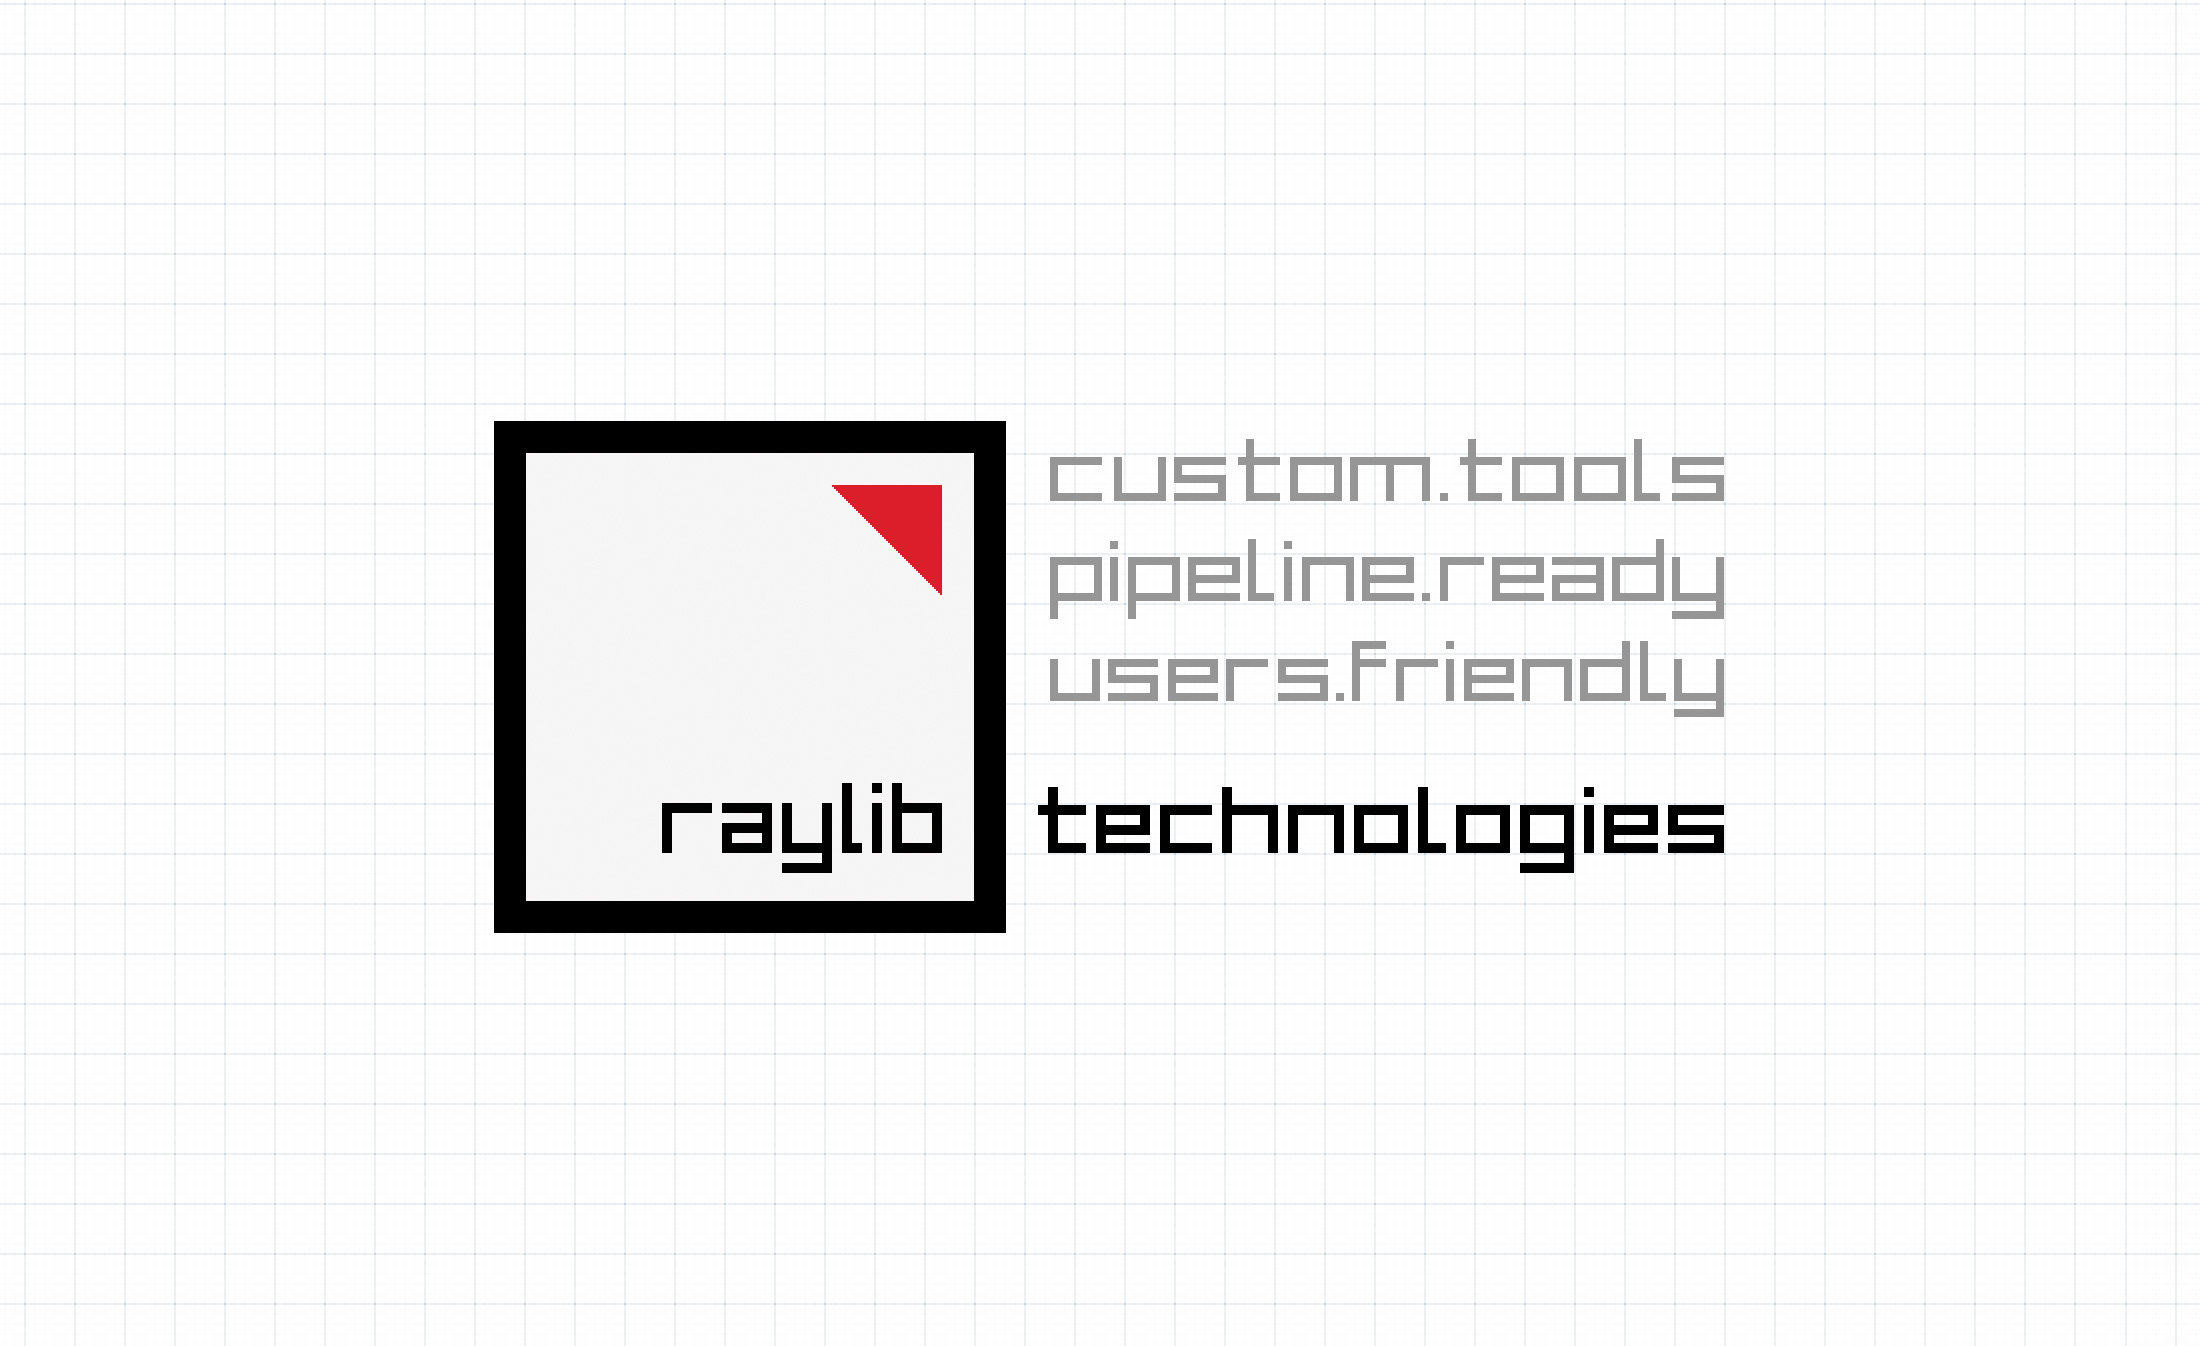
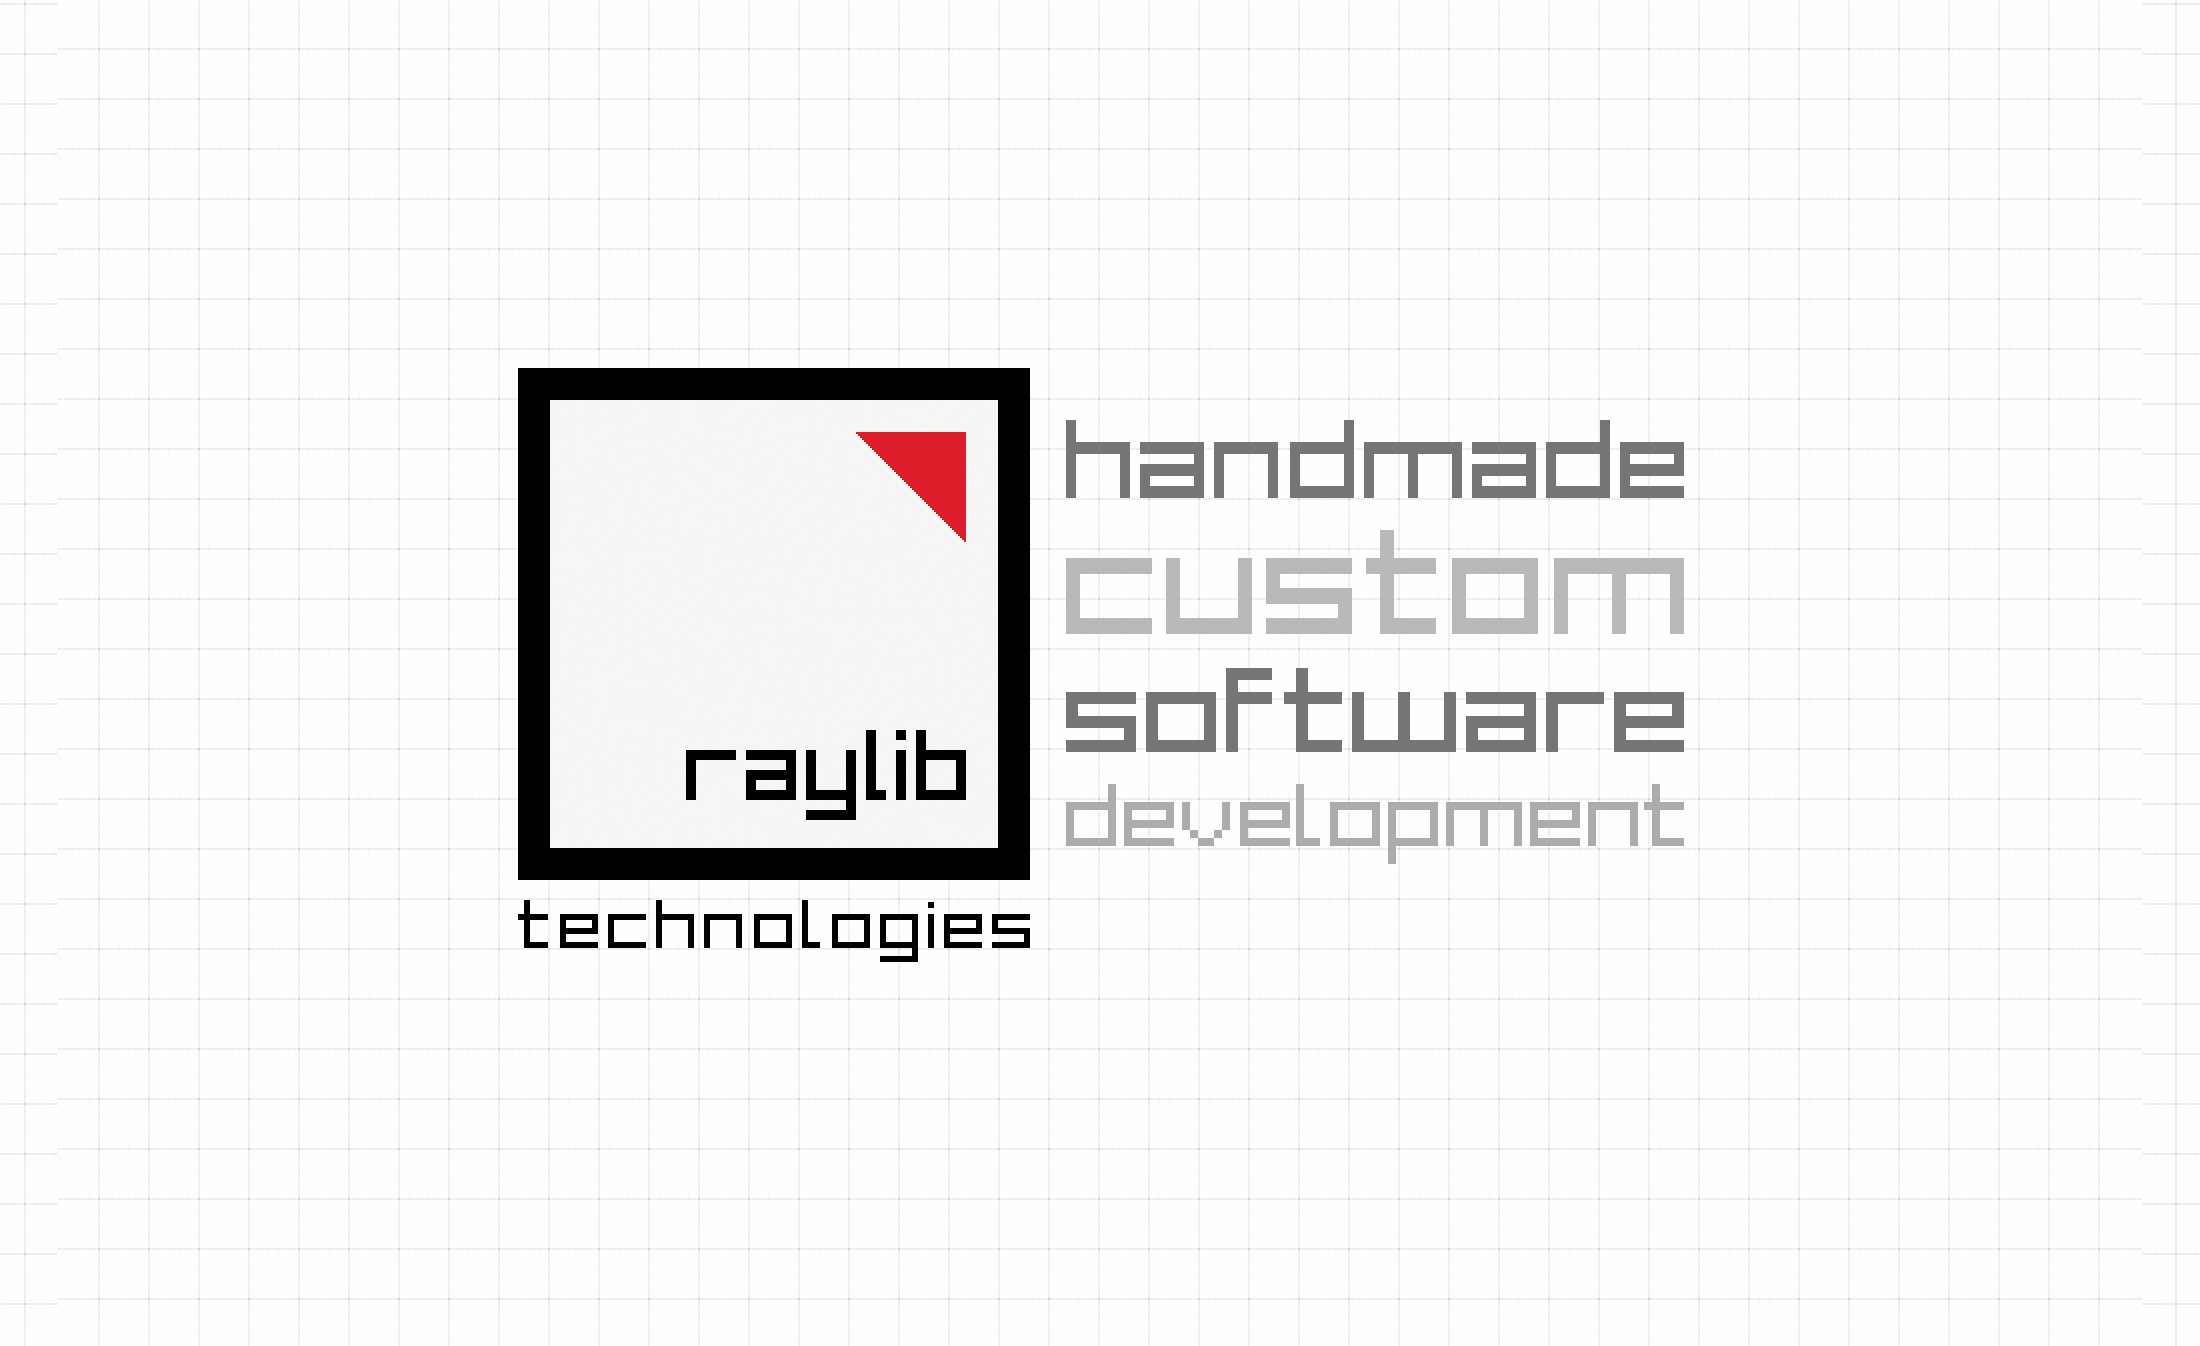
Some reviews

Changed region(s): [[0.2164, 0.2496, 0.8036, 0.7177]]

diff --git a/index.html b/index.html
@@ -5,21 +5,19 @@
 <!--[if (gte IE 9)|!(IE)]><!--><html class="no-js" lang="en"> <!--<![endif]-->
 <head>
 
-    <!--- Basic Page Needs
-    ================================================== -->
+    <!--- Basic Page Needs ================================ -->
     <meta charset="utf-8">
     <title>raylib technologies</title>
-    <meta name="description" content="custom tools development. multiplatform, self-contained, high-performant, pipeline-ready, users-friendly, code-sustainable">
+    <meta name="description" content="handmade custom tools development. multiplatform, self-contained, high-performant, pipeline-ready, users-friendly, code-sustainable">
     <meta name="keywords" content="raylibtech, tools, gamedev, raylib, videogames, programming, C, C++">
     <meta name="author" content="raylib technologies">
 
-    <!-- Mobile Specific Metas
-    ================================================== -->
+    <!-- Mobile Specific Metas ============================ -->
     <meta name="viewport" content="width=device-width, initial-scale=1, maximum-scale=1">
     
     <!-- Social metatags for sharing -->
     <meta property="og:title" content="raylib technologies"/>
-    <meta property="og:type" content="company" />
+    <meta property="og:type" content="startup" />
     <meta property="og:url" content="https://www.raylibtech.com" />
     <meta property="og:image" content="https://www.raylibtech.com/images/raylibtech_card.png"/>
     <meta property="og:description" content="custom tools development. multiplatform, self-contained, high-performant, pipeline-ready, users-friendly, code-sustainable"/>
@@ -28,26 +26,22 @@
     <meta name="twitter:site" content="@raylibtech" />
     <meta name="twitter:title" content="raylib technologies" />
     <meta name="twitter:creator" content="@raysan5">
-    <meta name="twitter:description" content="custom tools development. multiplatform, self-contained, high-performant, pipeline-ready, users-friendly, code-sustainable" />
+    <meta name="twitter:description" content="handmade custom tools development. multiplatform, self-contained, high-performant, pipeline-ready, users-friendly, code-sustainable" />
     <meta name="twitter:image" content="https://www.raylibtech.com/images/raylibtech_card.png" />
     <meta name="twitter:url" content="https://www.raylibtech.com" />
 
-    <!-- CSS
-    ================================================== -->
+    <!-- CSS ============================================== -->
     <link rel="stylesheet" href="css/base.css">
     <link rel="stylesheet" href="css/main.css">
     <link rel="stylesheet" href="css/media-queries.css">
 
-    <!-- Script
-    =================================================== -->
+    <!-- Script =========================================== -->
     <script src="js/modernizr.js"></script>
 
-    <!-- Favicons
-    =================================================== -->
+    <!-- Favicons ========================================= -->
     <link rel="shortcut icon" href="favicon.ico" >
     
-    <!-- Global site tag (gtag.js) - Google Analytics
-    =================================================== -->
+    <!-- Global site tag (gtag.js) - Google Analytics ===== -->
     <script async src="https://www.googletagmanager.com/gtag/js?id=UA-123737995-1"></script>
     <script>
         window.dataLayer = window.dataLayer || [];
@@ -57,8 +51,7 @@
         gtag('config', 'UA-123737995-1');
     </script>
     
-    <!-- Cookie Consent message (GDPR Compliance)
-    =================================================== -->
+    <!-- Cookie Consent message (GDPR Compliance) ========= -->
     <link rel="stylesheet" type="text/css" href="//cdnjs.cloudflare.com/ajax/libs/cookieconsent2/3.1.0/cookieconsent.min.css" />
     <script src="//cdnjs.cloudflare.com/ajax/libs/cookieconsent2/3.1.0/cookieconsent.min.js"></script>
     <script>
@@ -82,16 +75,11 @@
     </div>
 
 
-    <!-- Header
-    =================================================== -->
+    <!-- Header =========================================== -->
     <header id="main-header">
 
-       <div class="row header-inner">
-<!--
-        <div class="logo">
-            <a class="smoothscroll" href="#hero">raylib technologies</a>
-        </div>
--->
+        <div class="row header-inner">
+
         <nav id="nav-wrap">
     
             <a class="mobile-btn" href="#nav-wrap" title="show navigation">
@@ -118,8 +106,7 @@
     </header>
 
 
-    <!-- Hero
-    =================================================== -->
+    <!-- Hero ============================================= -->
     <section id="hero">	
    	  
 		<div class="row hero-content">
@@ -130,8 +117,7 @@
 
    </section>
 
-    <!-- Portfolio
-    ================================================== -->
+    <!-- Portfolio ======================================== -->
     <section id="portfolio">
 
     <div class="row section-head">
@@ -142,7 +128,7 @@
 
              <hr />
 
-             <p>In raylib technologies we develop custom tools, ready for pipeline integration but also with simple users-friendly GUI interfaces, prepared for all kind of users.</p>
+             <p>In raylib technologies we develop handmade custom tools, ready for pipeline integration but also with simple users-friendly GUI interfaces, ready for all kind of users.</p>
              <p>Following tools are just a showcase of what we can do!</p>
 
         </div>
@@ -235,7 +221,7 @@
                 
                 <div class="bgrid item">
                     <div class="item-wrap">
-                    <a href="#" data-reveal-id="modal-07">
+                    <a href="https://raylibtech.itch.io/rguiicons" target="_blank">
                         <img src="images/portfolio/rguiicons.png" alt="rGuiIcons">
                         <div class="overlay"></div>
                         <div class="portfolio-item-meta">
@@ -406,18 +392,15 @@
    </section> <!-- /Portfolio -->
 
 
-    <!-- Services Section
-    ================================================== -->
+    <!-- Services Section ================================= -->
     <section id="services">
 
         <div class="row section-head">
-
             <div class="twelve columns">
                 <h1>our awesome <span>technology</span></h1>
                 <hr/>
-                <p>We develop custom tools tailored for your pipeline. We use our own technology, developed in-house along 5 years and offering incredible benefits over any other existing technology for software development. Check it out!</p>
+                <p>We develop handmade custom tools tailored for your pipeline. We use our own technology, <a href="https://www.raylib.com/">raylib</a>, developed in-house along 6 years. It offers incredible benefits over any other existing technology for software development. Check it out!</p>
             </div>
-
         </div>
 
         <div class="row">
@@ -432,7 +415,7 @@
                         </div>
                         <h3>multiplatform</h3>
                         <div class="service-content">    
-                            <p>Choose your target platform for our tool. We can develop tools to work on desktop platforms (Windows, Linux, macOS) but also Android or embedded devices like Raspberry Pi or custom embedded hardware. Our tools can also run on web if required!</p>
+                            <p>Choose your target platform for our tool. We can develop tools to work on desktop platforms (Windows, Linux, macOS) but also Android or embedded devices like Raspberry Pi. Our tools can also run on web if required!</p>
                         </div>
                     </div> <!-- /bgrid -->
 
@@ -442,7 +425,7 @@
                         </div>
                         <h3>self-contained</h3>
                         <div class="service-content">    
-                            <p>Our tools have no external dependencies. Forget about additional libraries or files, they are not required to run our tools. Just download the self-contained stand-alone tool and integrate it seamlessly in your pipeline. It was never that easy!</p>
+                            <p>Our tools have no external dependencies. Forget about additional libraries or external files, they are not required to run our tools. Just download the self-contained stand-alone binary and integrate it seamlessly in your pipeline. It was never that easy!</p>
                         </div>
                     </div> <!-- /bgrid -->
 
@@ -452,7 +435,7 @@
                         </div>
                         <h3>high-performant</h3>
                         <div class="service-content">    
-                            <p>Coded in low-level language (C99) and hardware accelerated. Our tools use all the power of your computer to run at maximum speed and with low memory footprint. Developed for maximum performance avoiding unnecesary over-engineering!</p>
+                            <p>Coded in low-level programming language (C99) and hardware accelerated. Our tools use all the power of your computer to run at maximum speed and with low memory footprint. Maximum performance avoiding unnecesary over-engineering!</p>
                         </div>
                     </div> <!-- /bgrid -->
 
@@ -462,7 +445,7 @@
                         </div>
                         <h3>users-friendly</h3>
                         <div class="service-content">    
-                            <p>Not a coder? Not a technical user? No worries. Our tools could include fancy and simple visual GUI interfaces prioritizing user-experience, adapted to all kind of users. Just let us know your needs and we will create the best interface for you!</p>
+                            <p>Not a coder? Not a technical user? No worries. Our tools include simple visual interface (UI) prioritizing user-experience, adapted to all kind of users. Just let us know your needs, we will create the best interface for you!</p>
                         </div>
                     </div> <!-- /bgrid -->
 
@@ -482,7 +465,7 @@
                         </div>
                         <h3>code-sustainable</h3>
                         <div class="service-content">    
-                            <p>We care for code maintenance and sustainability. Our code is simple and carefully crafted with that objective in mind, with clear sections and comments. Do you need some hot-fix? Some new features? We care for your tools!</p>
+                            <p>We care for code maintenance and sustainability. Our code is simple and carefully crafted with that objective in mind, clearly organized and commented. Do you need some hot-fix? Some new features? We care for your tools!</p>
                         </div>
                     </div> <!-- /bgrid -->
 
@@ -495,8 +478,7 @@
     </section> <!-- /services -->
 
 
-    <!-- About Section
-    ================================================== -->
+    <!-- About Section ==================================== -->
     <section id="about">
 
         <div class="row section-head">
@@ -505,7 +487,7 @@
                 <h1>Who Are <span>We</span></h1>
                 <hr/>
                 <p>We are a small company in the center of the beautiful city of Barcelona.</p>
-                <p>Despite still being a small and young company, we already have our own powerful tools-dev technology, carefully crafted during more than 5 years.</p>
+                <p>Despite still being a small and young company, we already have our own powerful tools-dev technology, carefully crafted along 6 years.</p>
                 <p>Clients satisfaction is our priority and we really care for each one of our products. We analyze every client needs, working closely with them to create the perfect tool for their process.</p>
                 <p>We are friendly and we are here to help, we love to create the best tools for our clients.</p>
             </div>
@@ -514,8 +496,7 @@
 
     </section> <!-- /about -->
 
-    <!-- Contact Section
-    ================================================== -->
+    <!-- Contact Section ================================== -->
     <section id="contact">
 
         <div class="row section-head">
@@ -600,13 +581,12 @@
     </section>  <!-- /contact-->
 
 
-    <!-- Footer
-    ================================================== -->
+    <!-- Footer =========================================== -->
     <footer>
 
     <div class="row">
 
-        <p class="copyright">&copy; Copyright 2018 raylib technologies based on <a href="https://www.styleshout.com/free-templates/puremedia/">Puremedia</a> web template designed by <a href="https://www.styleshout.com/">styleshout</a>.</p>
+        <p class="copyright">&copy; Copyright 2019 raylib technologies based on <a href="https://www.styleshout.com/free-templates/puremedia/">Puremedia</a> web template designed by <a href="https://www.styleshout.com/">styleshout</a>.</p>
 
         <div id="go-top">
             <a class="smoothscroll" title="Back to Top" href="#hero"><span>Top</span><i class="fa fa-long-arrow-up"></i></a>
@@ -617,8 +597,7 @@
     </footer> <!-- /footer -->
 
 
-    <!-- Java Script
-    ================================================== -->
+    <!-- Java Script ====================================== -->
     <script src="https://ajax.googleapis.com/ajax/libs/jquery/1.10.2/jquery.min.js"></script>
     <script>window.jQuery || document.write('<script src="js/jquery-1.10.2.min.js"><\/script>')</script>
     <script type="text/javascript" src="js/jquery-migrate-1.2.1.min.js"></script>
